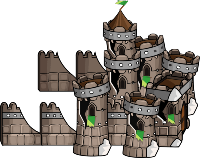
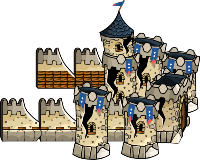
last update

diff --git a/enemy.py b/enemy.py
@@ -12,6 +12,54 @@ class Bogey(pygame.sprite.Sprite):
         self.direction = self.vec(0, 0)
         self.pos = self.rect.center
         self.target, self.speed = target, speed
+        self.hp = 1
+
+        # tạo tuyến đường cho bogey
+        self.pathfinder = PathFinder(self.pos, self.target)
+        self.path = self.pathfinder.create_path(diagonal_movement)
+        self.collision_rects = self.pathfinder.create_collision_rects()
+
+    # kiểm tra va chạm với các ô trong ma trận và xác định hướng di chuyển tiếp theo
+    def get_direction(self):
+        if self.collision_rects:
+            start = self.vec(self.pos)
+            end = self.vec(self.collision_rects[0].center)
+            self.direction = (end - start).normalize()
+        else:
+            self.direction = self.vec(0, 0)
+            self.path = []
+
+    # kiểm tra va chạm với các ô trong ma trận
+    def check_collisions(self):
+        if self.collision_rects:
+            for rect in self.collision_rects:
+                if rect.collidepoint(self.pos):
+                    del self.collision_rects[0]
+                    self.get_direction()
+        else:
+            self.path = []
+    
+    # cập nhật vị trí của bogey
+    def move(self):
+        self.pos += self.direction * self.speed
+        self.check_collisions()
+        self.rect.center = self.pos
+    
+    def update(self):
+        self.move()
+
+class Snail(pygame.sprite.Sprite):
+    # khởi tạo ban đầu của enemy gồm vị trí, mục tiêu , và tốc độ
+    def __init__(self, pos, target, speed, diagonal_movement, *groups):
+        super().__init__(*groups)
+        self.image = pygame.image.load("resources/images/snail.png").convert_alpha()
+        self.rect = self.image.get_rect(center = pos)
+
+        self.vec = pygame.math.Vector2
+        self.direction = self.vec(0, 0)
+        self.pos = self.rect.center
+        self.target, self.speed = target, speed
+        self.hp = 2
 
         # tạo tuyến đường cho bogey
         self.pathfinder = PathFinder(self.pos, self.target)

diff --git a/events.py b/events.py
@@ -30,7 +30,11 @@ class GameHandler():
     def spawn_enemy(self, index):
             if self.event.enemy_count[index] < self.event.stage_enemies[self.event.stage - 1][index]:
                 self.event.choice_number(index)
-                Bogey(self.event.enemy_pos[index], Preset.enemy_target[index], self.event.speed[self.event.stage - 1], Preset.diagonal_movement[index], [self.game.game_sprites, self.game.enemies])
+                value = bool(random.randint(0, 1))
+                if value:
+                    Bogey(self.event.enemy_pos[index], Preset.enemy_target[index], self.event.speed[self.event.stage - 1], Preset.diagonal_movement[index], [self.game.game_sprites, self.game.enemies])
+                else:
+                    Snail(self.event.enemy_pos[index], Preset.enemy_target[index], self.event.speed[self.event.stage - 1], Preset.diagonal_movement[index], [self.game.game_sprites, self.game.enemies])
                 self.event.enemy_count[index] += 1
             else: 
                 self.event.stage_state[index] = True
@@ -54,10 +58,14 @@ class GameHandler():
                 self.game.victory()
 
         # kiểm tra và xử lý khi tên bắn vô enemy
-        hits = pygame.sprite.groupcollide(self.game.arrows, self.game.enemies, True, True)
-        for hit in hits:
-            self.game.audio.enemy_damaged.play()
-            self.score += 1
+        for sprite in self.game.enemies.sprites():
+            hits = pygame.sprite.spritecollide(sprite ,self.game.arrows, True)
+            for hit in hits:
+                self.game.audio.enemy_damaged.play()
+                sprite.hp -= 1
+                if sprite.hp == 0:
+                    sprite.kill()
+                    self.score += 1
 
         # kiểm tra và xử lý khi enemy tấn công castle
         hits = pygame.sprite.spritecollide(self.castle, self.game.enemies, True)

diff --git a/preset.py b/preset.py
@@ -13,6 +13,9 @@ class Preset:
     stage_enemies = [
         [
             [10 , 10, 0, 0],
+            [5, 10, 10, 5],
+            [10, 5, 5, 10],
+            [10, 10, 10, 10]
         ],
         [
             [10 , 0, 0, 10],
@@ -30,7 +33,7 @@ class Preset:
 
     # lưu trữ tốc độ của quái ở mỗi stage trong mỗi level
     speed = [
-        [1],
+        [1, 1, 1, 1],
         [1, 1.5, 1.5, 2],
         [1.5, 2, 2, 2.5]
     ]

diff --git a/castle.py b/castle.py
@@ -15,4 +15,6 @@ class Castle(pygame.sprite.Sprite):
     def update(self):
         if self.hp < Preset.hp_castle // 2:
             self.image = pygame.image.load("resources/images/castle_broken.png").convert_alpha()
+        if self.hp <= 0:
+            self.image = pygame.image.load("resources/images/castle_destroy.png").convert_alpha()
         
